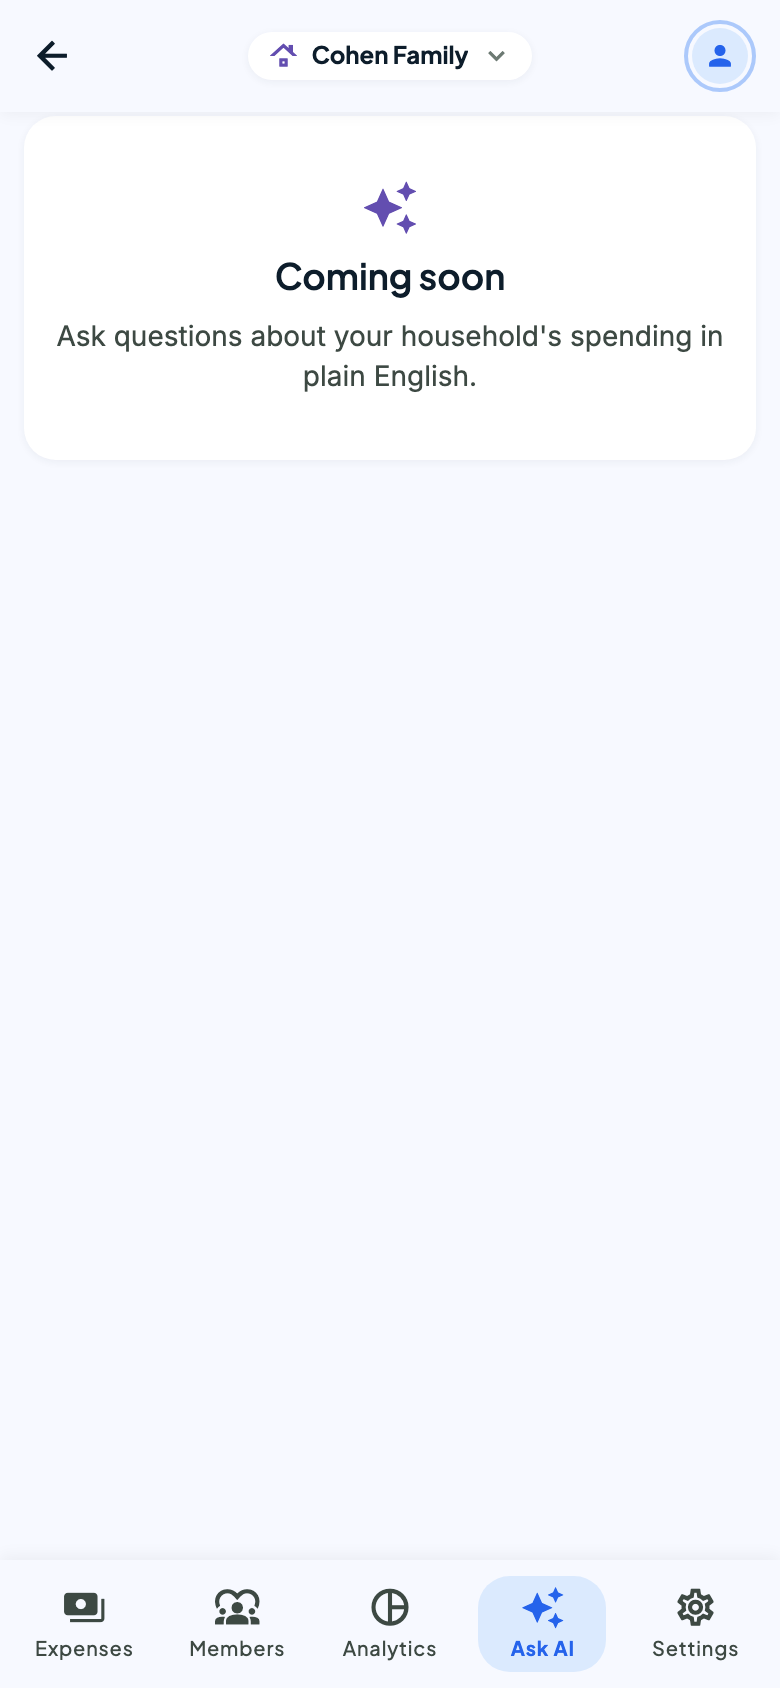
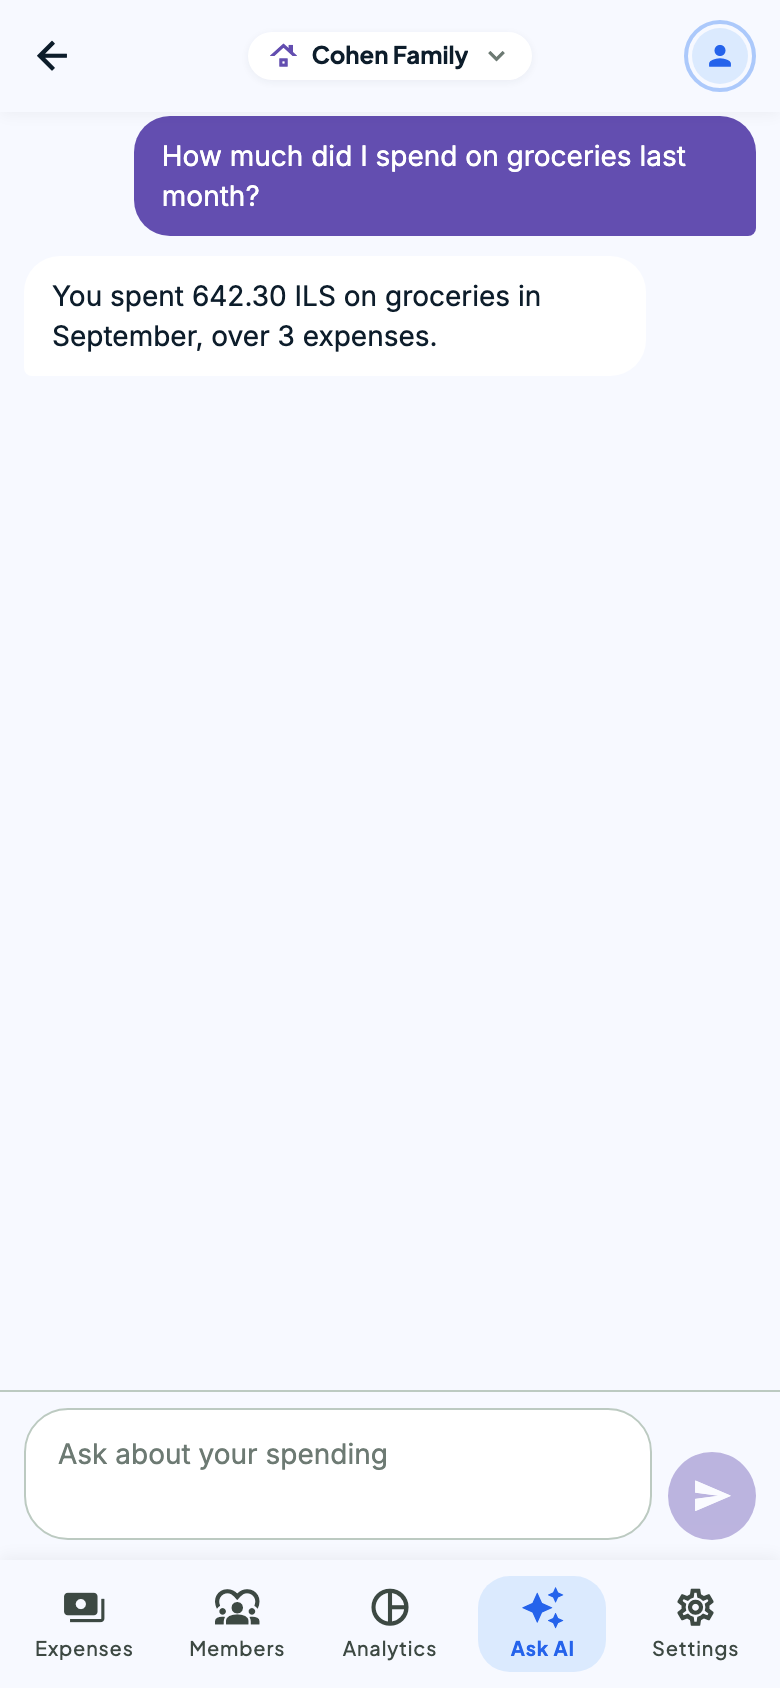
Document Ask AI in the README with chat screenshots

diff --git a/README.md b/README.md
@@ -18,7 +18,8 @@ Budgie is a mobile app for tracking a household's expenses together. Everyone in
   <tr>
     <td align="center"><img src="docs/screenshots/scan-receipt.png" width="220" alt="Photograph a receipt: take a photo or choose one from the gallery"><br><sub>Photograph a receipt</sub></td>
     <td align="center"><img src="docs/screenshots/receipt-expense.png" width="220" alt="The create expense form filled in from a receipt"><br><sub>Filled in from the receipt</sub></td>
-    <td align="center"><img src="docs/screenshots/ask-ai.png" width="220" alt="Ask AI: coming soon"><br><sub>Ask AI (coming soon)</sub></td>
+    <td align="center"><img src="docs/screenshots/ask-ai-start.png" width="220" alt="Ask AI: example questions to start a chat"><br><sub>Ask AI</sub></td>
+    <td align="center"><img src="docs/screenshots/ask-ai.png" width="220" alt="Ask AI: a question about groceries and its answer"><br><sub>Ask AI answering</sub></td>
   </tr>
 </table>
 
@@ -38,9 +39,10 @@ Budgie is a mobile app for tracking a household's expenses together. Everyone in
 - **Profile.** What you paid in each of your households, month by month.
 - **Multiple currencies.** Amounts are kept per currency and never converted or added across currencies.
 - **Accounts.** Sign up with email and a confirmation code (AWS Cognito), reset a forgotten password, change your name and password, and log out.
-- **Premium.** Premium accounts get 10 receipt scans a day instead of 3, and a Premium badge on their profile. Premium is set in the database for now; there is no way to upgrade in the app yet.
+- **Ask AI.** Ask about the household's spending in plain English: "How much did I spend on groceries last month?", "Where do we spend the most?", "What do our recurring expenses cost per month?". Follow-ups such as "and in March?" keep the context. The model never sees the database: it picks from a fixed set of queries (totals, monthly averages, biggest expenses, top categories, peak month, recurring costs, last purchase), and every number in the answer comes from those queries, per currency and only for your household. Premium only, up to 20 questions an hour.
+- **Premium.** Premium accounts can use Ask AI, get 10 receipt scans a day instead of 3, and have a Premium badge on their profile. Others see an invitation to join instead of the chat. Premium is set in the database for now; there is no way to upgrade in the app yet.
 
-Coming next: questions about your spending in plain English (the Ask AI tab, a premium feature; it shows a coming-soon screen for now), monthly reports, notifications for the household, and a way to become premium.
+Coming next: monthly reports, notifications for the household, and a way to become premium.
 
 ## Tech stack
 
@@ -51,6 +53,7 @@ Coming next: questions about your spending in plain English (the Ask AI tab, a p
 | Database | PostgreSQL 16 with Prisma 7 (`pg` driver adapter) |
 | Auth | AWS Cognito (the app's own sign-in screens; the API verifies ID tokens) |
 | Receipts | AWS S3 (presigned uploads, images deleted after reading), the OpenAI API (reads the receipt), `expo-image-picker` and `expo-image-manipulator` on the phone |
+| Ask AI | The OpenAI Responses API with function calling over predefined, household-scoped SQL queries (Prisma `$queryRaw`) |
 | Tests | Vitest (with Supertest against a real Postgres database for the API) |
 
 ## Repository layout
@@ -73,7 +76,7 @@ The two apps are separate npm projects with no workspaces. Run each one's comman
 - Node.js and npm
 - Docker, for the local database
 - An AWS Cognito user pool with an app client that has no client secret and has self-registration turned on
-- For receipts: an S3 bucket (with a lifecycle rule that expires leftover `receipts/` images), AWS credentials allowed `s3:PutObject`, `s3:GetObject` and `s3:DeleteObject` on `receipts/*` and `s3:ListBucket` on the bucket, and an OpenAI API key
+- For receipts: an S3 bucket (with a lifecycle rule that expires leftover `receipts/` images), AWS credentials allowed `s3:PutObject`, `s3:GetObject` and `s3:DeleteObject` on `receipts/*` and `s3:ListBucket` on the bucket, and an OpenAI API key (also used by Ask AI)
 - For the app: Xcode (iOS) or Android Studio with an emulator. The app uses native modules, so it runs as an Expo development build, not in Expo Go.
 
 ### Database
@@ -95,7 +98,7 @@ npm run db:seed         # the built-in categories
 npm run dev             # http://localhost:3000 (or PORT)
 ```
 
-`.env` needs `DATABASE_URL`, `AWS_REGION`, `COGNITO_USER_POOL_ID`, `COGNITO_CLIENT_ID`, `S3_BUCKET`, `OPENAI_API_KEY`, `OPENAI_RECEIPT_MODEL` and optionally `PORT`. AWS credentials come from the usual AWS SDK sources (environment, profile or role); on Railway, which has no AWS role, set `AWS_ACCESS_KEY_ID` and `AWS_SECRET_ACCESS_KEY`. A second Railway service runs the daily invite cleanup (`node dist/src/jobs/cleanupInvites.js` on the cron schedule `0 3 * * *`) and needs only `DATABASE_URL`. Railway settings are kept in the dashboard, not in config files. Never commit it.
+`.env` needs `DATABASE_URL`, `AWS_REGION`, `COGNITO_USER_POOL_ID`, `COGNITO_CLIENT_ID`, `S3_BUCKET`, `OPENAI_API_KEY`, `OPENAI_RECEIPT_MODEL`, `OPENAI_ASK_MODEL` (the model for Ask AI, `gpt-5.4-mini`) and optionally `PORT`. AWS credentials come from the usual AWS SDK sources (environment, profile or role); on Railway, which has no AWS role, set `AWS_ACCESS_KEY_ID` and `AWS_SECRET_ACCESS_KEY`. A second Railway service runs the daily invite cleanup (`node dist/src/jobs/cleanupInvites.js` on the cron schedule `0 3 * * *`) and needs only `DATABASE_URL`. Railway settings are kept in the dashboard, not in config files. Never commit it.
 
 ### Mobile app (`apps/mobile`)
 
@@ -124,7 +127,7 @@ npx vitest run
 npx tsc --noEmit
 ```
 
-The API tests run against the real Express app and a real database, with Cognito replaced by a test header and S3 presigning mocked (no AWS or OpenAI calls). Never point them at the development database.
+The API tests run against the real Express app and a real database, with Cognito replaced by a test header S3 presigning mocked and the OpenAI calls mocked (no AWS or OpenAI requests). Never point them at the development database.
 
 ## API at a glance
 
@@ -140,5 +143,6 @@ Every route needs a Cognito ID token (`Authorization: Bearer <token>`).
 | Recurring expenses | `/households/:id/rules` (create, list, get, update, delete) |
 | Month views | `GET /households/:id/calendar?month=`, `GET /households/:id/summary?month=` |
 | Receipts | `POST /households/:id/receipts` (a presigned upload URL), `POST /households/:id/receipts/analyze` (the suggested expense) |
+| Ask AI | `POST /households/:id/ask` (premium; a question and the recent chat, answered from the household's data) |
 
 [claude.md](claude.md) documents every endpoint, its rules and error responses, and the data model behind them.
